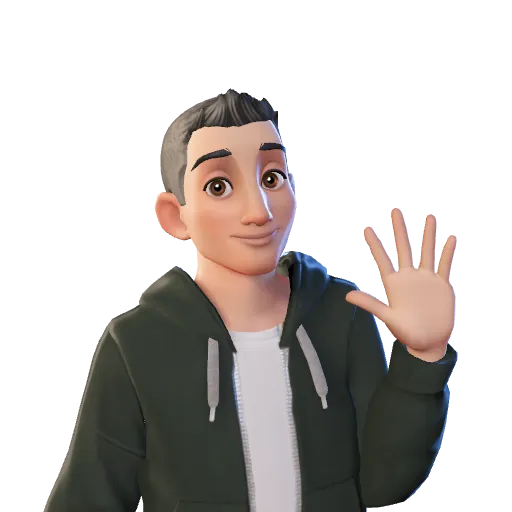
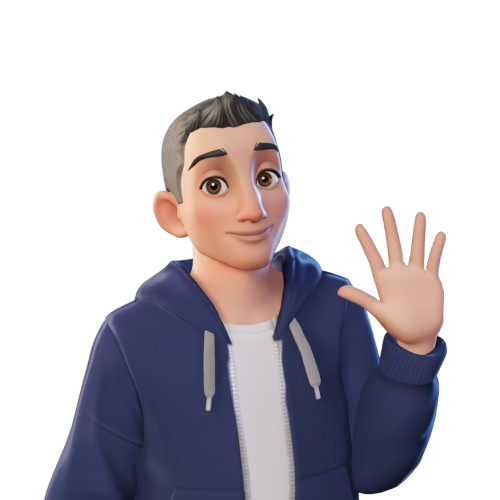
actualizacion de estilos

diff --git a/README.md b/README.md
@@ -1,8 +1,8 @@
-# <img src="./images/avatar.png" width=10% align=right /> ¡Hola! Soy Nicolás 👋
+<img src="./images/avatar.png" width="10%" align="right" /> ¡Hola! Soy Nicolás 👋
 
 ### Front-End Developer | React | JavaScript | TypeScript
 
-<a><img src="./images/bannerDgreen.jpg" borderRadius='1rem' boxShadow='0 5px 18px rgba(0,0,0,0.3)'></a>
+<a><img src="./images/bannerD.jpg" borderRadius='1rem' boxShadow='0 5px 18px rgba(0,0,0,0.3)'></a>
 
 ---
 
